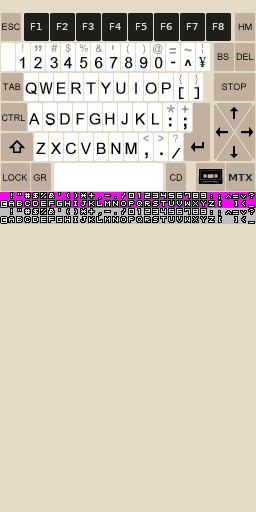
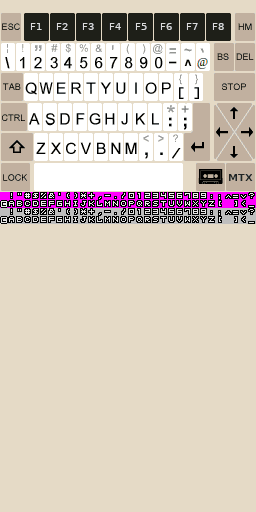
Another big round of keyboard cleanup in prep for the next release.

diff --git a/arm9/source/colecoDS.c b/arm9/source/colecoDS.c
@@ -1684,7 +1684,7 @@ u8 handle_msx_keyboard_press(u16 iTx, u16 iTy)  // MSX/SVI/MTX/Etc Keyboard
     }
     else if ((iTy >= 102) && (iTy < 132)) // Row 4 (ASDF row)
     {
-        if      ((iTx >= 0)   && (iTx < 27))   {kbd_key = KBD_KEY_CTRL; last_special_key = KBD_KEY_CTRL; last_special_key_dampen = 10;}
+        if      ((iTx >= 0)   && (iTx < 27))   {kbd_key = KBD_KEY_CTRL; last_special_key = KBD_KEY_CTRL; last_special_key_dampen = 20;}
         else if ((iTx >= 27)  && (iTx < 43))   kbd_key = 'A';
         else if ((iTx >= 43)  && (iTx < 58))   kbd_key = 'S';
         else if ((iTx >= 58)  && (iTx < 72))   kbd_key = 'D';
@@ -1700,7 +1700,7 @@ u8 handle_msx_keyboard_press(u16 iTx, u16 iTy)  // MSX/SVI/MTX/Etc Keyboard
     }
     else if ((iTy >= 132) && (iTy < 162)) // Row 5 (ZXCV row)
     {
-        if      ((iTx >= 0)   && (iTx < 33))   {kbd_key = KBD_KEY_CTRL; last_special_key = KBD_KEY_SHIFT; last_special_key_dampen = 10;}
+        if      ((iTx >= 0)   && (iTx < 33))   {kbd_key = KBD_KEY_CTRL; last_special_key = KBD_KEY_SHIFT; last_special_key_dampen = 20;}
         else if ((iTx >= 33)  && (iTx < 49))   kbd_key = 'Z';
         else if ((iTx >= 49)  && (iTx < 64))   kbd_key = 'X';
         else if ((iTx >= 64)  && (iTx < 78))   kbd_key = 'C';
@@ -1716,9 +1716,9 @@ u8 handle_msx_keyboard_press(u16 iTx, u16 iTy)  // MSX/SVI/MTX/Etc Keyboard
     else if ((iTy >= 162) && (iTy < 192)) // Row 6 (SPACE BAR and icons row)
     {
         if      ((iTx >= 1)   && (iTx < 30))   kbd_key = KBD_KEY_CAPS;
-        else if ((iTx >= 30)  && (iTx < 53))   {kbd_key = KBD_KEY_GRAPH; last_special_key = KBD_KEY_GRAPH; last_special_key_dampen = 10;}
+        else if ((iTx >= 30)  && (iTx < 53))   {kbd_key = KBD_KEY_GRAPH; last_special_key = KBD_KEY_GRAPH; last_special_key_dampen = 20;}
         else if ((iTx >= 53)  && (iTx < 163))  kbd_key = ' ';
-        else if ((iTx >= 163) && (iTx < 190))  {kbd_key = KBD_KEY_CODE; last_special_key = KBD_KEY_CODE; last_special_key_dampen = 10;}
+        else if ((iTx >= 163) && (iTx < 190))  {kbd_key = KBD_KEY_CODE; last_special_key = KBD_KEY_CODE; last_special_key_dampen = 20;}
         else if ((iTx >= 190) && (iTx < 235))  return MENU_CHOICE_CASSETTE;
         else if ((iTx >= 235) && (iTx < 255))  return MENU_CHOICE_MENU;
     }
@@ -1750,7 +1750,7 @@ u8 handle_mtx_keyboard_press(u16 iTx, u16 iTy)  // MTX/Etc Keyboard
     }
     else if ((iTy >= 42) && (iTy < 72))   // Row 2 (number row)
     {            
-        if      ((iTx >= 0)   && (iTx < 15))   kbd_key = '`';
+        if      ((iTx >= 0)   && (iTx < 15))   kbd_key = '\\';
         else if ((iTx >= 15)  && (iTx < 31))   kbd_key = '1';
         else if ((iTx >= 31)  && (iTx < 45))   kbd_key = '2';
         else if ((iTx >= 45)  && (iTx < 61))   kbd_key = '3';
@@ -1763,7 +1763,7 @@ u8 handle_mtx_keyboard_press(u16 iTx, u16 iTy)  // MTX/Etc Keyboard
         else if ((iTx >= 151) && (iTx < 165))  kbd_key = '0';
         else if ((iTx >= 165) && (iTx < 181))  kbd_key = '-';
         else if ((iTx >= 181) && (iTx < 195))  kbd_key = '^';
-        else if ((iTx >= 195) && (iTx < 210))  kbd_key = '\\';
+        else if ((iTx >= 195) && (iTx < 210))  kbd_key = '@';
         else if ((iTx >= 210) && (iTx < 235))  kbd_key = KBD_KEY_BS;
         else if ((iTx >= 235) && (iTx < 255))  kbd_key = KBD_KEY_DEL;
     }
@@ -1786,7 +1786,7 @@ u8 handle_mtx_keyboard_press(u16 iTx, u16 iTy)  // MTX/Etc Keyboard
     }
     else if ((iTy >= 102) && (iTy < 132)) // Row 4 (ASDF row)
     {
-        if      ((iTx >= 0)   && (iTx < 27))   {kbd_key = KBD_KEY_CTRL; last_special_key = KBD_KEY_CTRL; last_special_key_dampen = 10;}
+        if      ((iTx >= 0)   && (iTx < 27))   {kbd_key = KBD_KEY_CTRL; last_special_key = KBD_KEY_CTRL; last_special_key_dampen = 20;}
         else if ((iTx >= 27)  && (iTx < 43))   kbd_key = 'A';
         else if ((iTx >= 43)  && (iTx < 58))   kbd_key = 'S';
         else if ((iTx >= 58)  && (iTx < 72))   kbd_key = 'D';
@@ -1802,7 +1802,7 @@ u8 handle_mtx_keyboard_press(u16 iTx, u16 iTy)  // MTX/Etc Keyboard
     }
     else if ((iTy >= 132) && (iTy < 162)) // Row 5 (ZXCV row)
     {
-        if      ((iTx >= 0)   && (iTx < 33))   {kbd_key = KBD_KEY_CTRL; last_special_key = KBD_KEY_SHIFT; last_special_key_dampen = 10;}
+        if      ((iTx >= 0)   && (iTx < 33))   {kbd_key = KBD_KEY_CTRL; last_special_key = KBD_KEY_SHIFT; last_special_key_dampen = 20;}
         else if ((iTx >= 33)  && (iTx < 49))   kbd_key = 'Z';
         else if ((iTx >= 49)  && (iTx < 64))   kbd_key = 'X';
         else if ((iTx >= 64)  && (iTx < 78))   kbd_key = 'C';
@@ -1818,9 +1818,7 @@ u8 handle_mtx_keyboard_press(u16 iTx, u16 iTy)  // MTX/Etc Keyboard
     else if ((iTy >= 162) && (iTy < 192)) // Row 6 (SPACE BAR and icons row)
     {
         if      ((iTx >= 1)   && (iTx < 30))   kbd_key = KBD_KEY_CAPS;
-        else if ((iTx >= 30)  && (iTx < 53))   {kbd_key = KBD_KEY_GRAPH; last_special_key = KBD_KEY_GRAPH; last_special_key_dampen = 10;}
-        else if ((iTx >= 53)  && (iTx < 163))  kbd_key = ' ';
-        else if ((iTx >= 163) && (iTx < 190))  {kbd_key = KBD_KEY_CODE; last_special_key = KBD_KEY_CODE; last_special_key_dampen = 10;}
+        else if ((iTx >= 30)  && (iTx < 190))  kbd_key = ' ';
         else if ((iTx >= 190) && (iTx < 235))  return MENU_CHOICE_CASSETTE;
         else if ((iTx >= 235) && (iTx < 255))  return MENU_CHOICE_MENU;
     }
@@ -1847,7 +1845,7 @@ u8 handle_cvision_keyboard_press(u16 iTx, u16 iTy)  // Special controller for th
     }
     else if ((iTy >= 50) && (iTy < 89))   // Row 2
     {
-        if      ((iTx >= 0)   && (iTx < 21))   {kbd_key = KBD_KEY_CTRL; last_special_key = KBD_KEY_CTRL; last_special_key_dampen = 10;}
+        if      ((iTx >= 0)   && (iTx < 21))   {kbd_key = KBD_KEY_CTRL; last_special_key = KBD_KEY_CTRL; last_special_key_dampen = 20;}
         else if ((iTx >= 21)  && (iTx < 42))   kbd_key = 'Q';
         else if ((iTx >= 42)  && (iTx < 63))   kbd_key = 'W';
         else if ((iTx >= 63)  && (iTx < 84))   kbd_key = 'E';
@@ -1877,7 +1875,7 @@ u8 handle_cvision_keyboard_press(u16 iTx, u16 iTy)  // Special controller for th
     }
     else if ((iTy >= 128) && (iTy < 167))  // Row 4
     {
-        if      ((iTx >= 0)   && (iTx < 21))   {kbd_key = KBD_KEY_SHIFT; last_special_key = KBD_KEY_SHIFT; last_special_key_dampen = 10;}
+        if      ((iTx >= 0)   && (iTx < 21))   {kbd_key = KBD_KEY_SHIFT; last_special_key = KBD_KEY_SHIFT; last_special_key_dampen = 20;}
         else if ((iTx >= 21)  && (iTx < 42))   kbd_key = 'Z';
         else if ((iTx >= 42)  && (iTx < 63))   kbd_key = 'X';
         else if ((iTx >= 63)  && (iTx < 84))   kbd_key = 'C';

diff --git a/arm9/source/svi.c b/arm9/source/svi.c
@@ -114,6 +114,43 @@ unsigned char cpu_readport_svi(register unsigned short Port)
       // ------------------------------------------------------------------------
       
       u8 key1 = 0x00;
+      
+      // For the full keyboard overlay... this is a bit of a hack for SHIFT and CTRL
+      if ((last_special_key_dampen > 0) && (last_special_key_dampen != 20))
+      {
+          if (--last_special_key_dampen == 0)
+          {
+              last_special_key = 0;
+              AffChaine(4,0,6, "    ");
+          }
+      }
+      
+      if (last_special_key == KBD_KEY_SHIFT) 
+      { 
+        AffChaine(4,0,6, "SHFT");
+        key_shift = 1;
+      }
+      else if (last_special_key == KBD_KEY_CTRL)  
+      {
+        AffChaine(4,0,6, "CTRL");
+        key_ctrl = 1;
+      }
+      else if (last_special_key == KBD_KEY_CODE)
+      {
+        AffChaine(4,0,6, "CODE");
+        key_code = 1;
+      }
+      else if (last_special_key == KBD_KEY_GRAPH)
+      {
+        AffChaine(4,0,6, "GRPH");
+        key_graph = 1;
+      }
+      
+      if ((kbd_key != 0) && (kbd_key != KBD_KEY_SHIFT) && (kbd_key != KBD_KEY_CTRL) && (kbd_key != KBD_KEY_CODE) && (kbd_key != KBD_KEY_GRAPH))
+      {
+          if (last_special_key_dampen == 20) last_special_key_dampen = 19;    // Start the SHIFT/CONTROL countdown... this should be enough time for it to register
+      }
+      
       if ((Port_PPI_C & 0x0F) == 0)      // Row 0
       {
           // -----------------------------------------------------------
@@ -154,13 +191,13 @@ unsigned char cpu_readport_svi(register unsigned short Port)
               }
           }
       }      
-      else if ((Port_PPI_C & 0x0F) == 1)
+      else if ((Port_PPI_C & 0x0F) == 1) // Row 1
       {
           if (kbd_key)
           {
               if (kbd_key == '8')           key1 = 0x01;
               if (kbd_key == '9')           key1 = 0x02;
-              if (kbd_key == ':')           key1 = 0x04;
+              if (kbd_key == ';')           key1 = 0x04;
               if (kbd_key == KBD_KEY_QUOTE) key1 = 0x08;
               if (kbd_key == ',')           key1 = 0x10;
               if (kbd_key == '=')           key1 = 0x20;
@@ -271,7 +308,8 @@ unsigned char cpu_readport_svi(register unsigned short Port)
               if (kbd_key == 'Y')           key1 = 0x02;
               if (kbd_key == 'Z')           key1 = 0x04;
               if (kbd_key == '[')           key1 = 0x08;
-              if (kbd_key == ']')           key1 = 0x10;
+              if (kbd_key == '\\')          key1 = 0x10;
+              if (kbd_key == ']')           key1 = 0x20;
               if (kbd_key == KBD_KEY_DEL)   key1 = 0x40;              
               if (kbd_key == KBD_KEY_UP)    key1 = 0x80;
           }          
@@ -288,12 +326,12 @@ unsigned char cpu_readport_svi(register unsigned short Port)
       }      
       else if ((Port_PPI_C & 0x0F) == 6) // Row 6
       {
-          // Handle the Shift Key ... two ways
-          if (key_shift || (kbd_key == KBD_KEY_SHIFT))  key1 = 0x01;
-          
           if (kbd_key)
           {
+              if (kbd_key == KBD_KEY_SHIFT) key1 = 0x01;
               if (kbd_key == KBD_KEY_CTRL)  key1 = 0x02;
+              if (kbd_key == KBD_KEY_GRAPH) key1 = 0x04;
+              if (kbd_key == KBD_KEY_CODE)  key1 = 0x08;
               if (kbd_key == KBD_KEY_ESC)   key1 = 0x10;
               if (kbd_key == KBD_KEY_STOP)  key1 = 0x20;
               if (kbd_key == KBD_KEY_RET)   key1 = 0x40;
@@ -309,6 +347,11 @@ unsigned char cpu_readport_svi(register unsigned short Port)
                   if ((nds_key & NDS_keyMap[i]) && (keyCoresp[myConfig.keymap[i]] == META_KBD_LEFT))   key1 |= 0x80;
               }
           }
+          // Handle the Shift Key and Control Key
+          if (key_shift)  key1 |= 0x01;
+          if (key_ctrl)   key1 |= 0x02;
+          if (key_graph)  key1 |= 0x04;
+          if (key_code)   key1 |= 0x08;
       }
       else if ((Port_PPI_C & 0x0F) == 7) // Row 7
       {
@@ -319,6 +362,8 @@ unsigned char cpu_readport_svi(register unsigned short Port)
               if (kbd_key == KBD_KEY_F3)    key1 = 0x04;
               if (kbd_key == KBD_KEY_F4)    key1 = 0x08;
               if (kbd_key == KBD_KEY_F5)    key1 = 0x10;
+              if (kbd_key == KBD_KEY_HOME)  key1 = 0x20;
+              if (kbd_key == KBD_KEY_INS)   key1 = 0x40;
               if (kbd_key == KBD_KEY_DOWN)  key1 = 0x80;              
           }          
           if (nds_key)
@@ -337,8 +382,11 @@ unsigned char cpu_readport_svi(register unsigned short Port)
           if (kbd_key)
           {
               if (kbd_key == ' ')           key1 = 0x01;
+              if (kbd_key == KBD_KEY_TAB)   key1 = 0x02;
+              if (kbd_key == KBD_KEY_DEL)   key1 = 0x04;
+              if (kbd_key == KBD_KEY_CAPS)  key1 = 0x08;
+              if (kbd_key == KBD_KEY_SEL)   key1 = 0x10;
               if (kbd_key == KBD_KEY_RIGHT) key1 = 0x80;
-              if (kbd_key == KBD_KEY_CAPS)  key1 = 0x08;              
           }          
           if (nds_key)
           {

diff --git a/arm9/source/memotech.c b/arm9/source/memotech.c
@@ -101,6 +101,33 @@ unsigned char cpu_readport_memotech(register unsigned short Port)
       
       u8 scan_matrix = ~MTX_KBD_DRIVE & 0xFF;
       u8 key1 = 0x00;
+      
+      // For the full keyboard overlay... this is a bit of a hack for SHIFT and CTRL
+      if ((last_special_key_dampen > 0) && (last_special_key_dampen != 20))
+      {
+          if (--last_special_key_dampen == 0)
+          {
+              last_special_key = 0;
+              AffChaine(4,0,6, "    ");
+          }
+      }
+      
+      if (last_special_key == KBD_KEY_SHIFT) 
+      { 
+        AffChaine(4,0,6, "SHFT");
+        key_shift = 1;
+      }
+      else if (last_special_key == KBD_KEY_CTRL)  
+      {
+        AffChaine(4,0,6, "CTRL");
+        key_ctrl = 1;
+      }
+      
+      if ((kbd_key != 0) && (kbd_key != KBD_KEY_SHIFT) && (kbd_key != KBD_KEY_CTRL) && (kbd_key != KBD_KEY_CODE) && (kbd_key != KBD_KEY_GRAPH))
+      {
+          if (last_special_key_dampen == 20) last_special_key_dampen = 19;    // Start the SHIFT/CONTROL countdown... this should be enough time for it to register
+      }
+      
 
       if (scan_matrix & 0x01)
       {
@@ -112,6 +139,7 @@ unsigned char cpu_readport_memotech(register unsigned short Port)
               if (kbd_key == '7')           key1 |= 0x08;
               if (kbd_key == '9')           key1 |= 0x10;
               if (kbd_key == '-')           key1 |= 0x20;
+              if (kbd_key == '\\')          key1 |= 0x40;
           }          
           if (nds_key)
           {
@@ -196,7 +224,6 @@ unsigned char cpu_readport_memotech(register unsigned short Port)
               if (kbd_key == 'U')           key1 |= 0x08;
               if (kbd_key == 'O')           key1 |= 0x10;
               if (kbd_key == '@')           key1 |= 0x20;
-              if (kbd_key == '=')           key1 |= 0x40;
               if (kbd_key == KBD_KEY_LEFT)  key1 |= 0x80;              
           }          
           if (nds_key)
@@ -284,6 +311,7 @@ unsigned char cpu_readport_memotech(register unsigned short Port)
               if (kbd_key == 'N')           key1 |= 0x08;
               if (kbd_key == ',')           key1 |= 0x10;
               if (kbd_key == '/')           key1 |= 0x20;
+              if (kbd_key == '-')           key1 |= 0x40;
               if (kbd_key == KBD_KEY_DOWN)  key1 |= 0x80;              
           }          
           

diff --git a/arm9/source/msx.c b/arm9/source/msx.c
@@ -124,7 +124,7 @@ unsigned char cpu_readport_msx(register unsigned short Port)
       // ----------------------------------------------------------
       
       // For the full keyboard overlay... this is a bit of a hack for SHIFT and CTRL
-      if ((last_special_key_dampen > 0) && (last_special_key_dampen != 10))
+      if ((last_special_key_dampen > 0) && (last_special_key_dampen != 20))
       {
           if (--last_special_key_dampen == 0)
           {
@@ -156,7 +156,7 @@ unsigned char cpu_readport_msx(register unsigned short Port)
       
       if ((kbd_key != 0) && (kbd_key != KBD_KEY_SHIFT) && (kbd_key != KBD_KEY_CTRL) && (kbd_key != KBD_KEY_CODE) && (kbd_key != KBD_KEY_GRAPH))
       {
-        if (last_special_key_dampen == 10) last_special_key_dampen = 9;
+          if (last_special_key_dampen == 20) last_special_key_dampen = 19;    // Start the SHIFT/CONTROL countdown... this should be enough time for it to register
       }
       
       u8 key1 = 0x00;

diff --git a/arm9/source/creativision.c b/arm9/source/creativision.c
@@ -368,7 +368,7 @@ ITCM_CODE void creativision_input(void)
     }
     
     // For the full keyboard overlay... this is a bit of a hack for SHIFT and CTRL
-    if ((last_special_key_dampen > 0) && (last_special_key_dampen != 10))
+    if ((last_special_key_dampen > 0) && (last_special_key_dampen != 20))
     {
         if (--last_special_key_dampen == 0)
         {
@@ -388,7 +388,7 @@ ITCM_CODE void creativision_input(void)
     }
     if ((kbd_key != 0) && (kbd_key != KBD_KEY_SHIFT) && (kbd_key != KBD_KEY_CTRL))
     {
-        if (last_special_key_dampen == 10) last_special_key_dampen = 9;
+        if (last_special_key_dampen == 20) last_special_key_dampen = 19;
     }
 }
 
